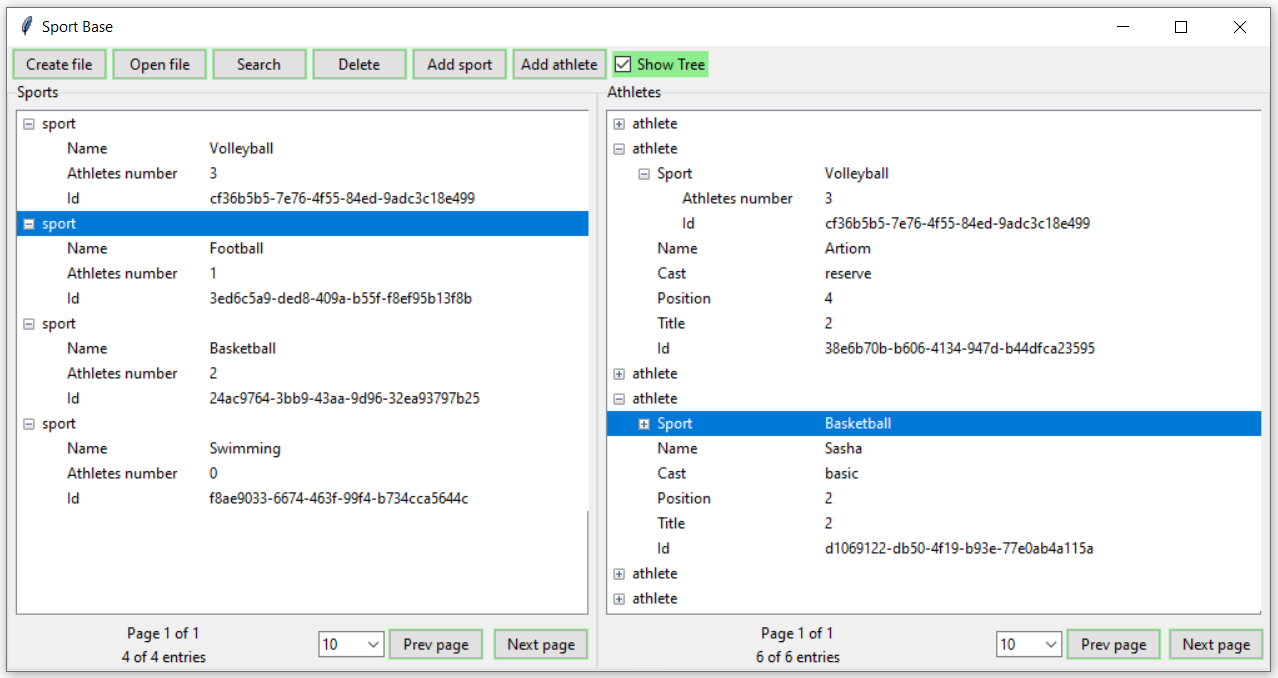
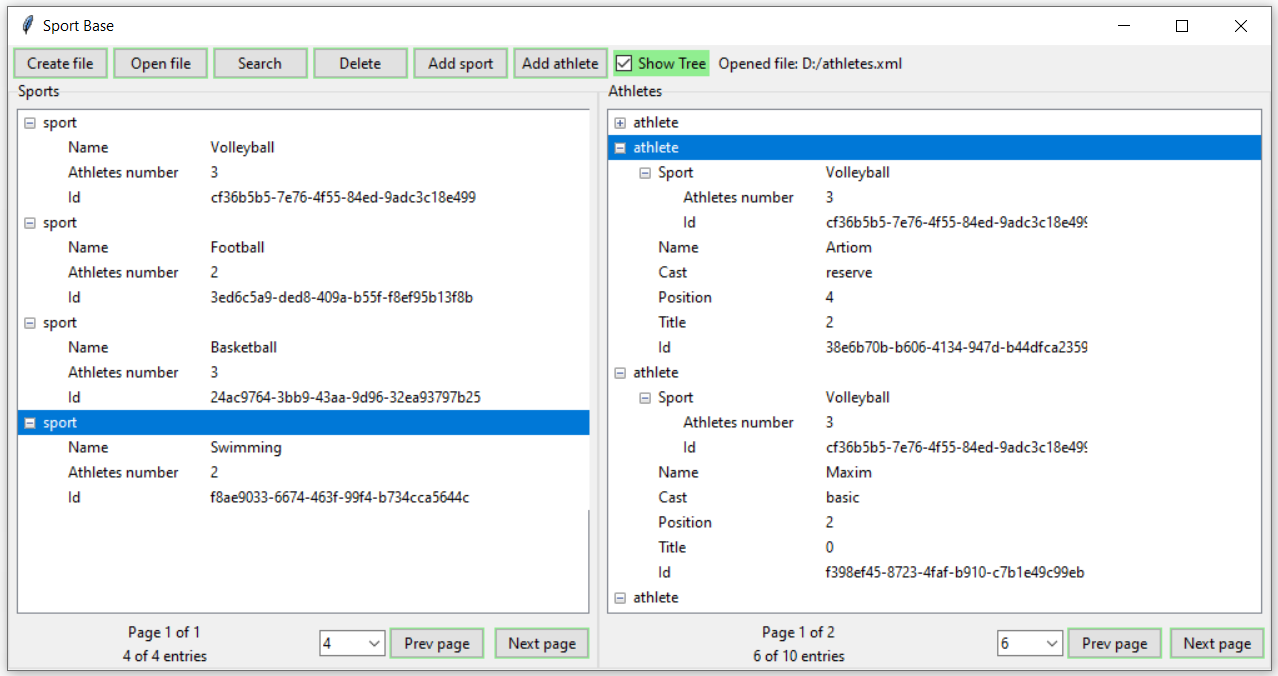
updated file

diff --git a/LABA2/view/MainWindow.py b/LABA2/view/MainWindow.py
@@ -56,6 +56,9 @@ class Application:
         toolbar = ttk.Frame(self.main_window)
         toolbar.grid(row=0, column=0, columnspan=2, sticky=tk.EW, padx=2, pady=2)
 
+        self.open_file_label = tk.StringVar()
+        self.open_file_label.set("Opened file: None")
+
         toolbar_buttons = (
             ttk.Button(toolbar, text="Create file", command=self.create_file),
             ttk.Button(toolbar, text="Open file", command=self.open_file),
@@ -68,6 +71,8 @@ class Application:
         )
         for index, button in enumerate(toolbar_buttons):
             button.pack(padx=2, pady=0, side=tk.LEFT)
+        label = tk.Label(toolbar, textvariable=self.open_file_label)
+        label.pack(padx=2, pady=0, side=tk.LEFT)
 
     def check_sports_and_open_add_athlete_window(self):
         if not self.presenter.get_sports():
@@ -157,11 +162,13 @@ class Application:
                 return
 
             self.presenter = DataPresenter()
+            self.open_file_label.set(f"Opened file: {filename}")
             self.presenter.select_model(filename)
 
         else:
 
             self.presenter = DataPresenter()
+            self.open_file_label.set(f"Opened file: {filename_after_create}")
             self.presenter.select_model(filename_after_create)
             self.presenter.creation()
 
@@ -178,6 +185,8 @@ class Application:
         return all(re.match(r'^[А-ЯA-Z][а-яa-z]*$', word) for word in name.split())
 
     def configure_tabs(self):
+
+
         sports_panel = ttk.Labelframe(self.main_window, text="Sports")
         sports_panel.grid(row=1, column=0, sticky=tk.NSEW)
         sports_panel.columnconfigure(index=0, weight=1)
@@ -188,6 +197,7 @@ class Application:
         athletes_panel.columnconfigure(index=0, weight=1)
         athletes_panel.rowconfigure(index=0, weight=1)
         # bottom toolbar
+
         def set_page_size_athletes(event):
             if self.presenter is None:
                 return
@@ -264,6 +274,7 @@ class Application:
         self.record_count_label_sports = ttk.Label(sport_tree_buttons, text="")
         self.record_count_label_sports.pack()
         self.update_record_count_label_sports()
+
 
         # Left side of main screen
         self.sport_tree = ttk.Treeview(master=sports_panel)

diff --git a/LABA2/README.md b/LABA2/README.md
@@ -8,7 +8,7 @@
 с помощью команды:
 `pip install -r requirements.txt`
 <hr>
-<a href="https://git.io/typing-svg"><img src="https://readme-typing-svg.herokuapp.com?font=Roboto&weight=300&pause=1000&color=00A41F&random=false&width=435&lines=2.+%D0%9E%D0%BF%D0%B8%D1%81%D0%B0%D0%BD%D0%B8%D0%B5+%D0%BF%D1%80%D0%B8%D0%BB%D0%BE%D0%B6%D0%B5%D0%BD%D0%B8%D1%8F%3A" alt="Typing SVG" /></a>
+<a href="https://git.io/typing-svg"><img src="https://readme-typing-svg.herokuapp.com?font=Roboto&weight=300&pause=1000&color=00A41F&random=false&width=435&lines=2.+%D0%9E%D0%BF%D0%B8%D1%81%D0%B0%D0%BD%D0%B8%D0%B5+%D0%BF%D1%80%D0%B8%D0%BB%D0%BE%D0%B6%D0%B5%D0%BD%D0%B8%D1%8F" alt="Typing SVG" /></a>
 
 Программа Sport Base предназначена для управления данными о различных видах спорта и спортсменах
 с помощью графического интерфейса.
@@ -36,7 +36,8 @@
 - Таблица Sports для просмотра видов спорта
 - Таблица Athletes для просмотра спортсменов
 
-Также имеется панель инструментов со всеми командами.
+Также имеется панель инструментов со всеми командами,
+слева от которой отображается абсолютнй путь открытого файла
 
 ![img_19.png](images/img_19.png)
 
